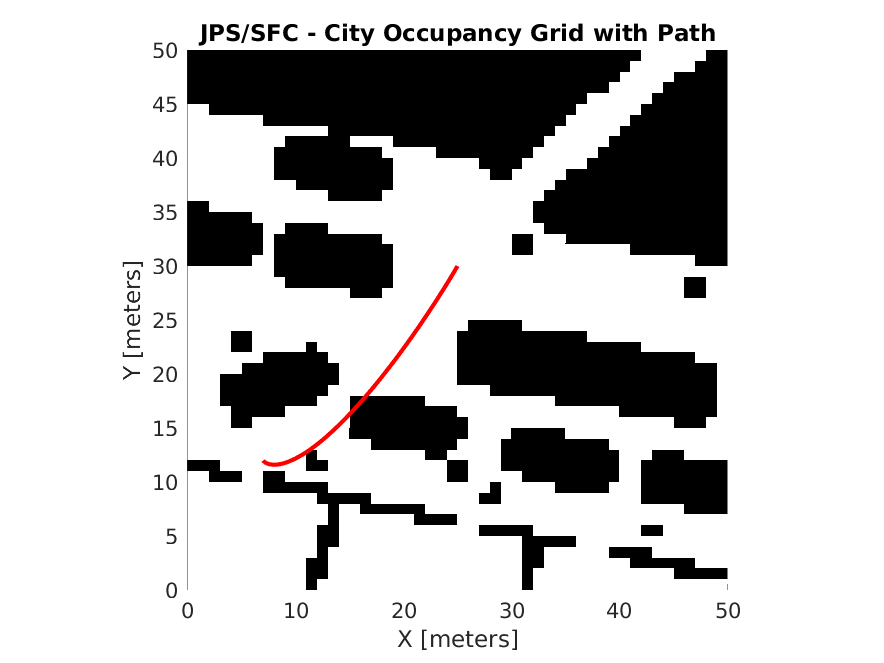
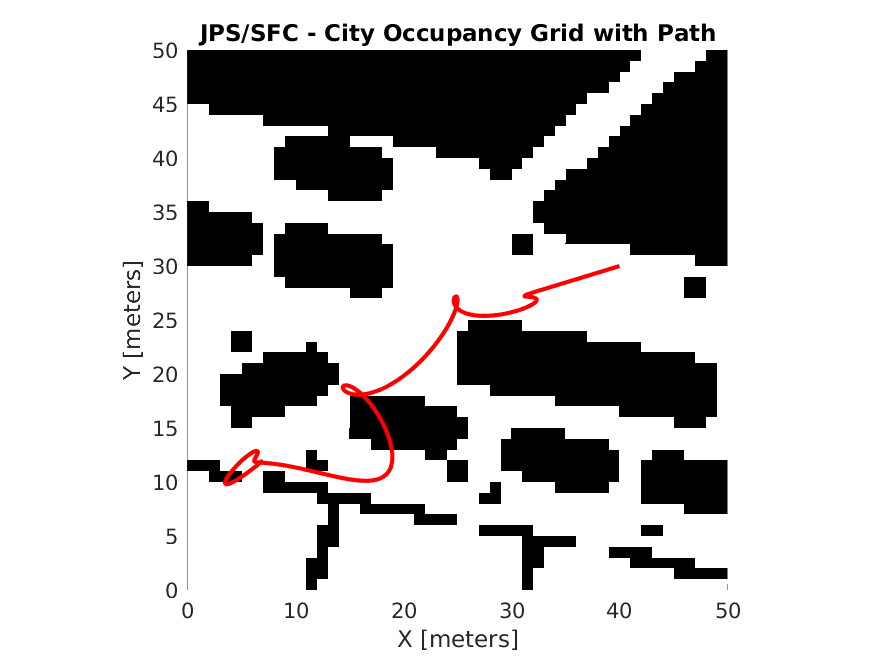
simplified polygon intersection check. generated some decent SFC figures. added good start/goal point in test SFC file

diff --git a/test_safe_flight_corridor.m b/test_safe_flight_corridor.m
@@ -2,21 +2,46 @@ close all
 clear
 clc
 
+%% city map
+
 [occgrid, occgrid_unscaled]= loadMap('city_map_low_res.png', 50);
-% figure
-% show(occgrid_unscaled)
-% grid on
 map = occgrid_unscaled;
+
+% works #1
 start = [25, 30];
 goal = [7, 12];
+
+% loops through obstacle
+% start = [40, 30];
+% goal = [7, 12];
+
+% goes through wall
+% start = [2, 2];
+% goal = [20, 24];
+
+% start = [25, 30];
+% goal = [38, 16];
 
 [occgrid, occgrid_unscaled]= loadMap('city_map.png', 50);
 figure
 show(occgrid_unscaled)
 hold on
 grid on
-% start = [7, 7];
-% goal = [41, 31];
+
+%% house map
+% 
+% [occgrid, occgrid_unscaled]= loadMap('house_map.png', 50);
+% map = inflateMap(occgrid_unscaled,10,1.25);
+% 
+% % works #1
+% start = [40, 25];
+% goal = [25, 15];
+% 
+% figure
+% show(map)
+% hold on
+% grid on
+
 
 %% Jump Point Search
 nodes = [];
@@ -35,7 +60,7 @@ drawnow
 
 %% Safe Flight Corridor
 
-path = [25,30;13,18;11,16;7,12];
+%path = [25,30;13,18;11,16;7,12];
 
 path_size = size(path);
 for i = 1:path_size(1)-1
@@ -44,4 +69,5 @@ end
 
 [min_path, min_path_length] = SFC_trajGen(path(1,:), path(end,:), SF_poly)
 %%
-plotSolvedPath(map, [], min_path, 'JPS/SFC - City Occupancy Grid with Path','/figures/JPS_SFC_city_path_3.png')
+
+%plotSolvedPath(map, [], min_path, 'JPS/SFC - City Occupancy Grid with Path','/figures/JPS_SFC_city_path_4.png')

diff --git a/main.m b/main.m
@@ -1,5 +1,4 @@
-% The purpose of this code is to implement the Safe Flight Corridors and
-% Receding Horizon Path Planning Algorithm
+% The purpose of this code is to implement the Jump Point Seach and Safe Flight Corridors and Path Planning Algorithm
 % The authors of this code are: Christian Chang, Christopher Poole, Trevor Rizzo and Diana
 % Lee Guzman
 
@@ -17,6 +16,7 @@ clc
 % Parallel Computing Toolbox
 % Automated Driving Toolbox
 % Symbolic Math Toolbox
+% Mapping Toolbox
 
 % ensure figures folder exists
 if not(isfolder('figures'))

diff --git a/SFC_trajGen.m b/SFC_trajGen.m
@@ -16,7 +16,11 @@ end
 
 intersections = [];
 n = size(polys,2);
-indices = nchoosek(1:n,2);
+% indices = nchoosek(1:n,2);
+for i = 1:n-1
+   indices(i,:) = [i i+1]; 
+end
+
 num_intersection = 1;
 
 for i = 1:size(indices,1)
